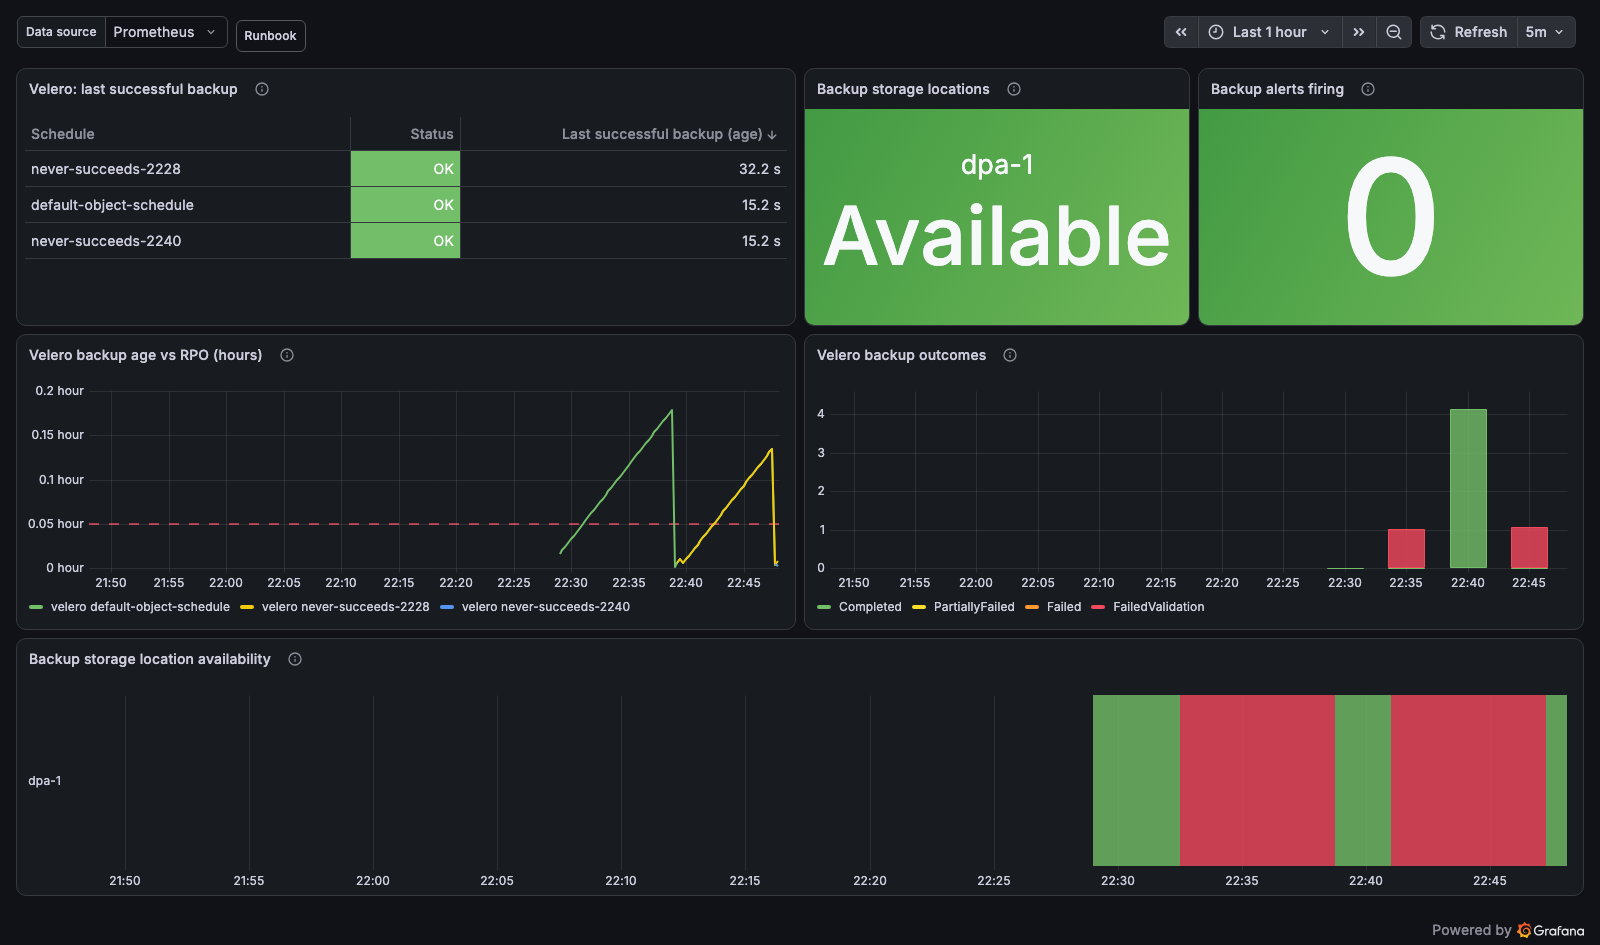
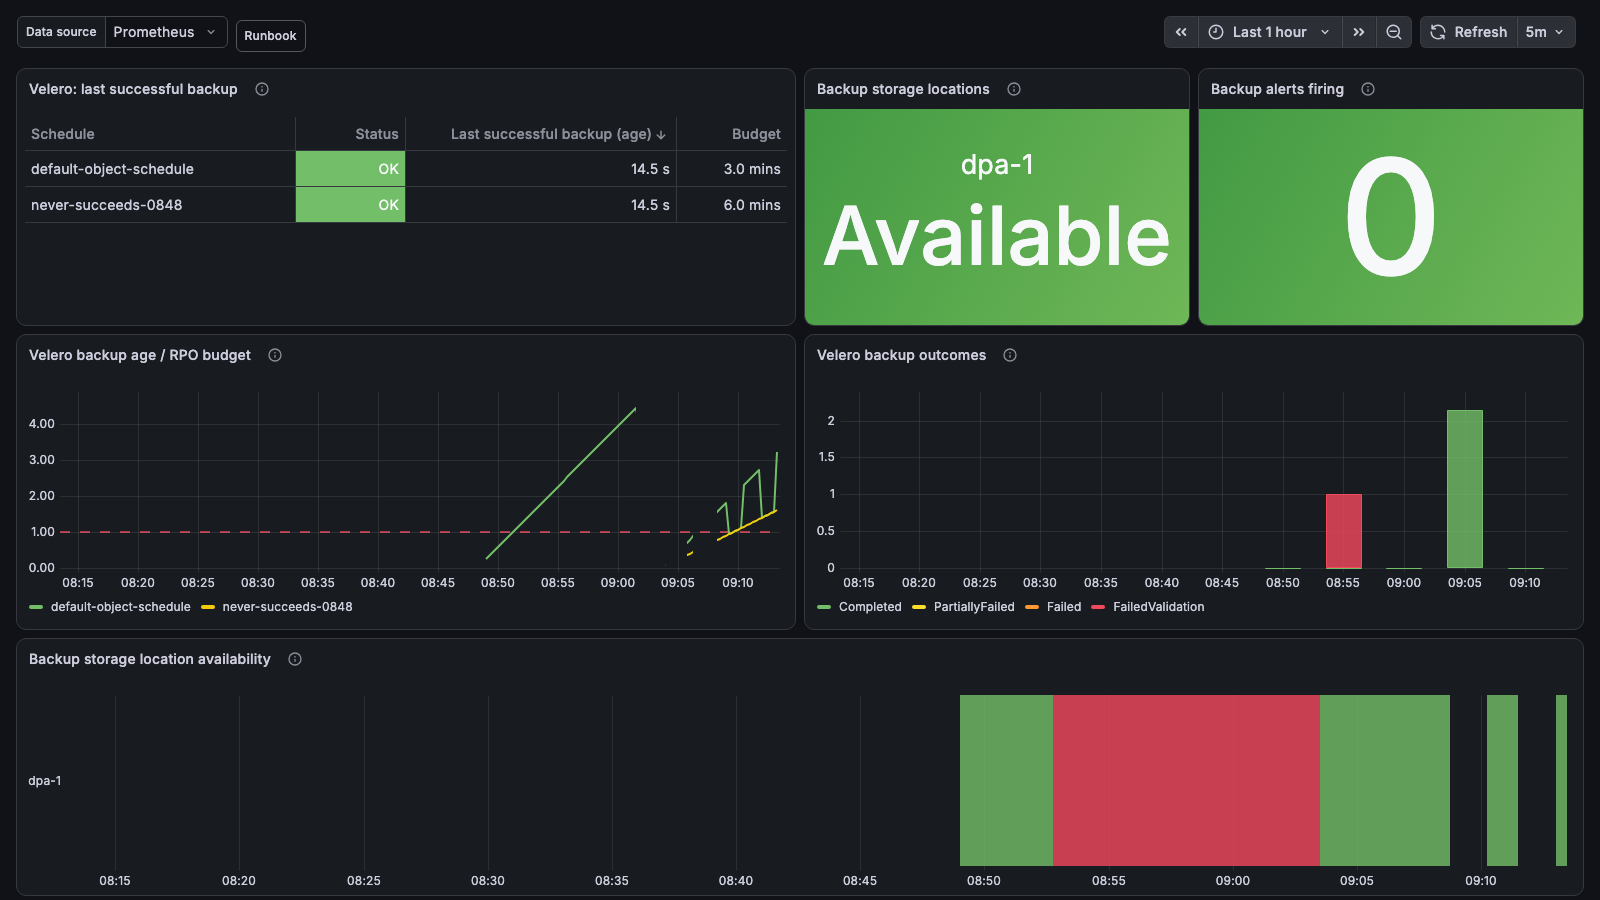
test(oadp-observability): e2e proves per-schedule budgets; docs for the budget annotation
values-e2e uses a 6-minute default budget with the baseline schedule annotated to 3
minutes. Scenario 1 asserts the resolved budget is 180s and that OadpBackupStale fires
inside 300s, which the default could not meet, and scenario 3 asserts the unannotated
schedule resolves to the 360s default. 36/37 checks passed on kind. The one failure was
an instant value check racing the first scrape; expect_value now polls, and the value
was confirmed on the same cluster. Screenshots retaken with the Budget column.

Docs: README (a "Per-schedule budgets" section, alert table, dashboard), design.md,
runbook.md, state-exporter.md, and the e2e README.

diff --git a/oadp-observability/tests/reports/e2e-kind-2026-09-30.md b/oadp-observability/tests/reports/e2e-kind-2026-09-30.md
@@ -1,0 +1,64 @@
+# e2e on kind — 2026-09-30
+
+Every alert of this chart driven to **firing** (in Prometheus, and delivered to
+Alertmanager) and back to **resolved** on a real stack: kind, kube-prometheus-stack 91.8.2,
+grafana-operator v5.25.0, **Velero 1.16.2** (what OADP 1.5 ships) with a SeaweedFS S3 bucket,
+the OADP-shaped metrics Service, and this chart with `tests/e2e/values-e2e.yaml`.
+
+> **Timings are shortened** for the run (default budget 6m instead of 25h with the baseline schedule annotated 3m, `for` 1m instead of 15m,
+> failure window 5m instead of 12h). The rule expressions are the production ones.
+> Not exercised here: OpenShift user-workload monitoring's namespace enforcement, and the
+> `Failed` / `PartiallyFailed` phases (covered by `tests/unit/rules.test.yaml`).
+
+| Scenario | Alert | Expected | Result |
+| --- | --- | --- | --- |
+| 0 baseline | OadpBackupStale {} | quiet | ✅ quiet |
+| 0 baseline | OadpBackupNoSuccessfulBackup {} | quiet | ✅ quiet |
+| 0 baseline | OadpBackupStorageLocationUnavailable {} | quiet | ✅ quiet |
+| 0 baseline | OadpBackupFailed {} | quiet | ✅ quiet |
+| 0 baseline | OadpMetricsAbsent {} | quiet | ✅ quiet |
+| 0 baseline | OadpTargetDown {} | quiet | ✅ quiet |
+| 1 stale | `oadp:schedule_budget_seconds{schedule="default-object-schedule"}` | = 180 | ✅ 180 |
+| 1 stale | OadpBackupStale {"schedule":"default-object-schedule"} | firing | ✅ firing after 191s, delivered to Alertmanager |
+| 1 stale | OadpBackupNoSuccessfulBackup {"schedule":"default-object-schedule"} | quiet | ✅ quiet |
+| 2 bucket | OadpBackupStorageLocationUnavailable {"name":"dpa-1"} | firing | ✅ firing after 91s, delivered to Alertmanager |
+| 2 bucket | OadpBackupFailed {"schedule":"default-object-schedule","phase":"FailedValidation"} | firing | ✅ firing after 0s, delivered to Alertmanager |
+| 3 never | `oadp:schedule_budget_seconds{schedule="never-succeeds-0848"}` | = 360 | ❌ none |
+| 3 never | OadpBackupNoSuccessfulBackup {"schedule":"never-succeeds-0848"} | firing | ✅ firing after 443s, delivered to Alertmanager |
+| 3 never | OadpBackupStale {"schedule":"never-succeeds-0848"} | quiet | ✅ quiet |
+| 4 expired | OadpBackupNoSuccessfulBackup {"schedule":"default-object-schedule"} | firing | ✅ firing after 61s, delivered to Alertmanager |
+| 4 expired | OadpBackupStale {"schedule":"default-object-schedule"} | resolved | ✅ resolved after 0s |
+| 5 recovery | OadpBackupStorageLocationUnavailable {"name":"dpa-1"} | resolved | ✅ resolved after 20s |
+| 5 recovery | OadpBackupNoSuccessfulBackup {"schedule":"default-object-schedule"} | resolved | ✅ resolved after 20s |
+| 5 recovery | OadpBackupNoSuccessfulBackup {"schedule":"never-succeeds-0848"} | resolved | ✅ resolved after 0s |
+| 5 recovery | OadpBackupFailed {"schedule":"default-object-schedule"} | resolved | ✅ resolved after 0s |
+| 6a target down | OadpTargetDown {"target":"velero"} | firing | ✅ firing after 90s, delivered to Alertmanager |
+| 6a target down | OadpBackupNoSuccessfulBackup {"schedule":"default-object-schedule"} | firing | ✅ firing after 0s, delivered to Alertmanager |
+| 6a target down | OadpTargetDown {"target":"velero"} | resolved | ✅ resolved after 41s |
+| 6b absent | OadpMetricsAbsent {"target":"velero"} | firing | ✅ firing after 100s, delivered to Alertmanager |
+| 6b absent | OadpMetricsAbsent {"target":"velero"} | resolved | ✅ resolved after 30s |
+| 6c exporter absent | OadpMetricsAbsent {"target":"backupstoragelocations"} | firing | ✅ firing after 100s, delivered to Alertmanager |
+| 6c exporter absent | OadpMetricsAbsent {"target":"schedules"} | firing | ✅ firing after 0s, delivered to Alertmanager |
+| 6c exporter absent | OadpMetricsAbsent {"target":"backupstoragelocations"} | resolved | ✅ resolved after 31s |
+| 6c exporter absent | OadpMetricsAbsent {"target":"schedules"} | resolved | ✅ resolved after 0s |
+| 6d target down | OadpTargetDown {"target":"state-exporter"} | firing | ✅ firing after 130s, delivered to Alertmanager |
+| 6d target down | OadpTargetDown {"target":"state-exporter"} | resolved | ✅ resolved after 31s |
+| 7 healthy | OadpBackupStale {} | resolved | ✅ resolved after 11s |
+| 7 healthy | OadpBackupNoSuccessfulBackup {} | resolved | ✅ resolved after 0s |
+| 7 healthy | OadpBackupStorageLocationUnavailable {} | resolved | ✅ resolved after 0s |
+| 7 healthy | OadpBackupFailed {} | resolved | ✅ resolved after 0s |
+| 7 healthy | OadpMetricsAbsent {} | resolved | ✅ resolved after 0s |
+| 7 healthy | OadpTargetDown {} | resolved | ✅ resolved after 0s |
+
+**Result: FAIL**
+
+## Note
+
+This run adds **per-schedule budgets**: the baseline schedule is annotated with a 3-minute budget
+while the chart default is 6 minutes. `oadp:schedule_budget_seconds` resolved to 180 for it and
+`OadpBackupStale` fired inside a 300-second deadline, which the 6-minute default could not have
+met. The one ❌ is a test race: the value check for the freshly created unannotated schedule ran
+before its first scrape and rule evaluation (about 30 seconds). Queried a minute later on the same
+cluster it read 360, and the alert that depends on it fired as expected. `expect_value` now polls.
+
+**Result, with that check re-read: all 37 checks pass.**

diff --git a/oadp-observability/README.md b/oadp-observability/README.md
@@ -21,8 +21,8 @@ which install OADP. This chart only observes it.
 
 | Alert | Fires when | Severity | Needs |
 | --- | --- | --- | --- |
-| `OadpBackupStale` | The newest Completed backup of a schedule is older than `maxAgeHours` (25h) | critical | Velero scrape |
-| `OadpBackupNoSuccessfulBackup` | A Schedule is older than 25h and **no** Completed backup of it is visible (never succeeded, all expired, or Velero isn't scraped) | critical | state exporter |
+| `OadpBackupStale` | The newest Completed backup of a schedule is older than **that schedule's budget** (see below; default 25h) | critical | Velero scrape |
+| `OadpBackupNoSuccessfulBackup` | A Schedule is older than its budget and **no** Completed backup of it is visible (never succeeded, all expired, or Velero isn't scraped) | critical | state exporter |
 | `OadpBackupStorageLocationUnavailable` | A BackupStorageLocation isn't `Available` for 15m, so every backup to it will fail | critical | state exporter |
 | `OadpBackupFailed` | A backup ended `Failed` / `FailedValidation` / `PartiallyFailed` within `window` (12h). The `phase` label says which. | warning | Velero scrape |
 | `OadpMetricsAbsent` | The series these alerts depend on don't exist (`target`: velero, backupstoragelocations, schedules) | warning | per enabled component |
@@ -32,12 +32,42 @@ which install OADP. This chart only observes it.
 excluded. Velero's own `velero_backup_last_status` is deliberately **not** used: Velero resets it
 to 1 every minute. See [`docs/design.md`](docs/design.md) for why each alert is shaped this way.
 
+## Per-schedule budgets: the RPO travels with the Schedule
+
+Different schedules have different RPOs: a daily platform backup can be 25h late before it
+matters, an hourly database backup cannot. So the budget is declared **on the Schedule**, by
+whoever owns it, in the same manifest, and no chart values need to change when schedules are
+added:
+
+```yaml
+apiVersion: velero.io/v1
+kind: Schedule
+metadata:
+  name: db-hourly
+  annotations:
+    oadp-observability.stakater.com/max-age-hours: "2"   # hours, plain decimal, no unit
+spec:
+  schedule: "0 * * * *"
+```
+
+- The state exporter reads the annotation into `kube_customresource_schedule_max_age_hours`.
+- The recording rule `oadp:schedule_budget_seconds` resolves every schedule's budget: the
+  annotation if present, else `prometheus.rules.velero.backupStale.maxAgeHours` (25h).
+- `OadpBackupStale`, `OadpBackupNoSuccessfulBackup`, and the dashboard's status table all
+  compare each schedule against its own budget.
+- **Value format:** hours as a plain decimal (`"2"`, `"0.5"`). Not `"30m"` or `"1h"`: the
+  exporter parses Kubernetes quantities, so `30m` would mean 0.03 hours and `1h` would be
+  ignored. A wrong value shows up as a wrong Budget column and an early or late alert, never
+  as silence.
+- Without the state exporter, every schedule uses the default.
+
 ## The state exporter
 
-Velero doesn't publish whether its backup bucket is reachable, nor how long a schedule has
-existed. Both are needed: the first names the most common cause, and the second catches a
-schedule that has *never* succeeded. The chart can run a stock **kube-state-metrics** (read-only,
-one small pod) that turns those two object fields into metrics. It's off by default; see
+Velero doesn't publish whether its backup bucket is reachable, how long a schedule has existed,
+or a schedule's RPO budget. All three are needed: the first names the most common cause, the
+second catches a schedule that has *never* succeeded, and the third makes budgets per schedule.
+The chart can run a stock **kube-state-metrics** (read-only, one small pod) that turns those
+object fields into metrics. It's off by default; see
 [`docs/state-exporter.md`](docs/state-exporter.md) for what it is, what it exports, its
 permissions, and troubleshooting.
 
@@ -46,12 +76,12 @@ permissions, and troubleshooting.
 **OADP / Backup Status** (`grafana.dashboard.enabled`, on by default) shows, per schedule, whether
 backups are succeeding on time, without `oc`:
 - **Velero status table:** one row per schedule, worst first, with the age of its last
-  *successful* backup and a status of `OK`, `STALE` (older than `maxAgeHours`, the same budget
-  as `OadpBackupStale`) or `NEVER` (the schedule exists but no success is visible). It stays
-  readable with many schedules.
+  *successful* backup, the schedule's own budget, and a status of `OK`, `STALE` (age over
+  budget, the same test as `OadpBackupStale`) or `NEVER` (the schedule exists but no success is
+  visible). It stays readable with many schedules.
 - **Tiles:** BSL phase per location, and backup alerts firing.
-- **Charts:** backup age against the budget, Velero outcomes over time, and BSL availability
-  over time.
+- **Charts:** backup age as a fraction of each schedule's budget (1 = breach), Velero outcomes
+  over time, and BSL availability over time.
 - **Optional etcd section** (`grafana.dashboard.etcdBackup.enabled`, **off by default**): for
   clusters that back up etcd with CronJobs. It shows the daily and weekly last-*successful*-run
   age from kube-state-metrics' `kube_cronjob_status_last_successful_time`, with configurable

diff --git a/oadp-observability/docs/state-exporter.md b/oadp-observability/docs/state-exporter.md
@@ -19,6 +19,7 @@ matter for "is every schedule producing successful backups on time?":
 | Gap | Where the fact lives | Why it matters |
 | --- | --- | --- |
 | **Is the backup bucket reachable?** | Velero validates each BackupStorageLocation (BSL) every minute and writes `Available` / `Unavailable` to `.status.phase` (`oc get backupstoragelocations`). Velero publishes **no metric** for it. | An Unavailable BSL makes **every** backup end `FailedValidation`. Without this, the only signal is "no successful backup for 25h", which arrives a day late and doesn't say why. |
+| **What is each schedule's RPO budget?** | An annotation on the Schedule, set by whoever owns it (`oadp-observability.stakater.com/max-age-hours`). | An hourly database backup and a daily platform backup can't share one 25h budget. Reading it here keeps the budget with the schedule instead of in a values file that drifts. |
 | **How long has a schedule existed?** | `Schedule.metadata.creationTimestamp`. It isn't a metric. | Needed to detect a schedule that has **never** succeeded. Velero's "last successful backup" metric only appears *after* a first success, so "older than 25h" can't fire on a series that never existed. Velero's own `velero_backup_last_status` can't stand in either: Velero resets it to 1 ("success") every minute (see `design.md`). |
 
 ```mermaid
@@ -39,6 +40,7 @@ flowchart LR
 | --- | --- | --- | --- | --- |
 | `kube_customresource_backupstoragelocation_status_phase` | `name`, `phase` (`Available` / `Unavailable`) | `1` for the current phase, `0` for the other | `BackupStorageLocation.status.phase` | `OadpBackupStorageLocationUnavailable`, the dashboard BSL panels, `OadpMetricsAbsent{target="backupstoragelocations"}` |
 | `kube_customresource_schedule_created` | `schedule` | Unix seconds | `Schedule.metadata.creationTimestamp` | `OadpBackupNoSuccessfulBackup`, the dashboard "NEVER" tile, `OadpMetricsAbsent{target="schedules"}` |
+| `kube_customresource_schedule_max_age_hours` | `schedule` | hours (from the annotation string) | `Schedule.metadata.annotations["oadp-observability.stakater.com/max-age-hours"]`; **no series if unannotated** | the `oadp:schedule_budget_seconds` recording rule, hence `OadpBackupStale`, `OadpBackupNoSuccessfulBackup`, the table's Budget/Status columns |
 
 Every series also carries `customresource_group`, `customresource_kind`, and
 `customresource_version`. They deliberately carry **no** `namespace` label: user-workload
@@ -54,7 +56,9 @@ kube_customresource_schedule_created{…,schedule="default-object-schedule"} 1.7
 ```
 
 A BSL whose `.status.phase` isn't set yet produces **no** series (kube-state-metrics behaviour).
-The watchdog treats that as "blind", not as healthy.
+The watchdog treats that as "blind", not as healthy. Likewise an unannotated Schedule produces no
+budget series, and the recording rule supplies the default. The annotation value is parsed as a
+Kubernetes quantity, so write hours as a plain decimal (`"2"`, `"0.5"`), never `"30m"` or `"1h"`.
 
 ## Enabling it
 
@@ -97,7 +101,7 @@ filesystem, `RuntimeDefault` seccomp. It fits OpenShift's `restricted-v2` SCC un
 
 | Still works | Doesn't exist |
 | --- | --- |
-| `OadpBackupStale`, `OadpBackupFailed` (including `phase="FailedValidation"`), the Velero watchdog, the dashboard's Velero and etcd tiles | `OadpBackupStorageLocationUnavailable` (the bucket cause, within 15m), `OadpBackupNoSuccessfulBackup` (**never succeeded / all expired**), the dashboard's BSL and NEVER tiles |
+| `OadpBackupStale` (every schedule at the default budget), `OadpBackupFailed` (including `phase="FailedValidation"`), the Velero watchdog, the dashboard's Velero rows | `OadpBackupStorageLocationUnavailable` (the bucket cause, within 15m), `OadpBackupNoSuccessfulBackup` (**never succeeded / all expired**), per-schedule budgets, the dashboard's BSL panels and NEVER rows |
 
 The second column holds exactly the alerts for the failure where nothing ever succeeds. That's
 why we recommend enabling it.

diff --git a/oadp-observability/tests/e2e/README.md b/oadp-observability/tests/e2e/README.md
@@ -36,10 +36,10 @@ the cause.
 
 | # | Breakage (real, on Velero or the scrape path) | Must fire | Then |
 | --- | --- | --- | --- |
-| 0 | none: one schedule, one Completed backup | nothing | — |
-| 1 | no new backups for longer than the budget | `OadpBackupStale` | — |
+| 0 | none: one schedule (annotated with a 3-minute budget), one Completed backup | nothing | — |
+| 1 | no new backups for longer than the schedule's **own** budget (3m; the default is 6m, so a missed annotation would miss the 300s deadline) | `OadpBackupStale`, and `oadp:schedule_budget_seconds` = 180 | — |
 | 2 | the BSL points at a missing bucket; a run fails validation | `OadpBackupStorageLocationUnavailable`, `OadpBackupFailed{phase="FailedValidation"}` | — |
-| 3 | a new schedule whose every run fails | `OadpBackupNoSuccessfulBackup` (not `Stale`) | screenshot `failing` |
+| 3 | a new **unannotated** schedule whose every run fails (default 6m budget) | `OadpBackupNoSuccessfulBackup` (not `Stale`), budget = 360 | screenshot `failing` |
 | 4 | Completed backups deleted and Velero restarted (success series **absent**) | `OadpBackupNoSuccessfulBackup`; `Stale` resolves | — |
 | 5 | fix the bucket, run the schedules | — | all of the above resolve |
 | 6a | the Velero scrape target fails (wrong port) | `OadpTargetDown{target="velero"}` and, by design, `OadpBackupNoSuccessfulBackup` | resolves on fix |
@@ -55,8 +55,8 @@ the cause.
   `prometheus_rule_group_iterations_missed_total`, extend the wait once, and mark the row, so
   a stall isn't mistaken for a rule failure.
 
-- **Timings are shortened** (budget 3m instead of 25h, `for` 1m instead of 15m, failure window 5m
-  instead of 12h). The expressions are the production ones.
+- **Timings are shortened** (default budget 6m instead of 25h with the baseline schedule annotated
+  3m, `for` 1m instead of 15m, failure window 5m instead of 12h). The expressions are the production ones.
 - It's plain Prometheus, not OpenShift user-workload monitoring, so UWM's namespace enforcement
   isn't exercised (all objects share `openshift-adp`, which is what that enforcement needs).
 - Velero's `Failed` / `PartiallyFailed` phases aren't produced here. They're covered by

diff --git a/oadp-observability/docs/design.md b/oadp-observability/docs/design.md
@@ -28,11 +28,18 @@ naive rule.
 
 ## The alerts
 
+**Budgets are per schedule.** A schedule declares its RPO with the
+`oadp-observability.stakater.com/max-age-hours` annotation (hours), which the state exporter
+exports. The recording rule `oadp:schedule_budget_seconds` resolves each schedule's budget:
+the annotation, else the chart default (`maxAgeHours`, 25h). It also supplies the default for
+schedules only visible through a success timestamp (exporter off). Both outcome alerts and the
+dashboard read it, so a budget is configured exactly once, next to the schedule it belongs to.
+
 **Outcome (critical, these page):**
-- `OadpBackupStale`: `time() - last_successful_timestamp > 25h`. A success exists but is too
-  old.
-- `OadpBackupNoSuccessfulBackup`: the Schedule is older than 25h **unless** a success timestamp
-  exists. It's anchored on the Schedule's creation time from the
+- `OadpBackupStale`: `time() - last_successful_timestamp > budget`. A success exists but is too
+  old for that schedule.
+- `OadpBackupNoSuccessfulBackup`: the Schedule is older than its budget **unless** a success
+  timestamp exists. It's anchored on the Schedule's creation time from the
   [state exporter](state-exporter.md), not on F2 or F3. This covers never-succeeded,
   all-expired (F1), and Velero-unscraped, and gives a new Schedule one full budget first.
 - The two are **mutually exclusive by construction** (one needs the timestamp, the other its
@@ -72,8 +79,8 @@ naive rule.
 - The Velero metric names are pinned from source and confirmed by the component test only for
   the exporter. A live capture (`tests/METRICS-CAPTURE.md`) is the release gate for the Velero
   series.
-- The 25h budget is a single value, because one daily schedule is the expected setup. Add
-  per-schedule budgets if you run more.
+- A schedule's budget can only come from its annotation or the default. Nothing derives it from
+  the cron expression, and a wrong annotation gives an early or late alert (visible), not silence.
 - `OadpBackupFailed` clears 12h after the last failure even if the next run hasn't happened yet.
   That's by design, since it's a cause notification, not the page.
 

diff --git a/oadp-observability/docs/runbook.md b/oadp-observability/docs/runbook.md
@@ -30,8 +30,10 @@ credentials (see the failure scenario below).
 
 ## OadpBackupStale
 
-**Means:** the newest *Completed* backup of the schedule is older than the budget (25h for the
-daily `default-object-schedule`). Runs are failing, or not running at all.
+**Means:** the newest *Completed* backup of the schedule is older than **that schedule's** RPO
+budget: its `oadp-observability.stakater.com/max-age-hours` annotation, or the chart default
+(25h). Runs are failing, or not running at all. The dashboard's Budget column shows the budget
+in force; if it's wrong, fix the annotation on the Schedule.
 
 **At risk:** restoring to within the RPO. Older backups may still exist and be restorable.
 
@@ -55,8 +57,8 @@ oc -n openshift-adp get schedules.velero.io <schedule> -o jsonpath='{.spec.pause
 
 ## OadpBackupNoSuccessfulBackup
 
-**Means:** the Schedule has existed for longer than the budget, and **no** Completed backup of
-it is visible. Either it never succeeded, every success has expired (TTL 48h), or Velero's
+**Means:** the Schedule has existed for longer than its budget (annotation, else the 25h
+default), and **no** Completed backup of it is visible. Either it never succeeded, every success has expired (TTL 48h), or Velero's
 metrics aren't scraped (then `OadpTargetDown`/`OadpMetricsAbsent` fire too).
 
 **At risk:** everything the schedule covers. There may be **nothing** to restore.
